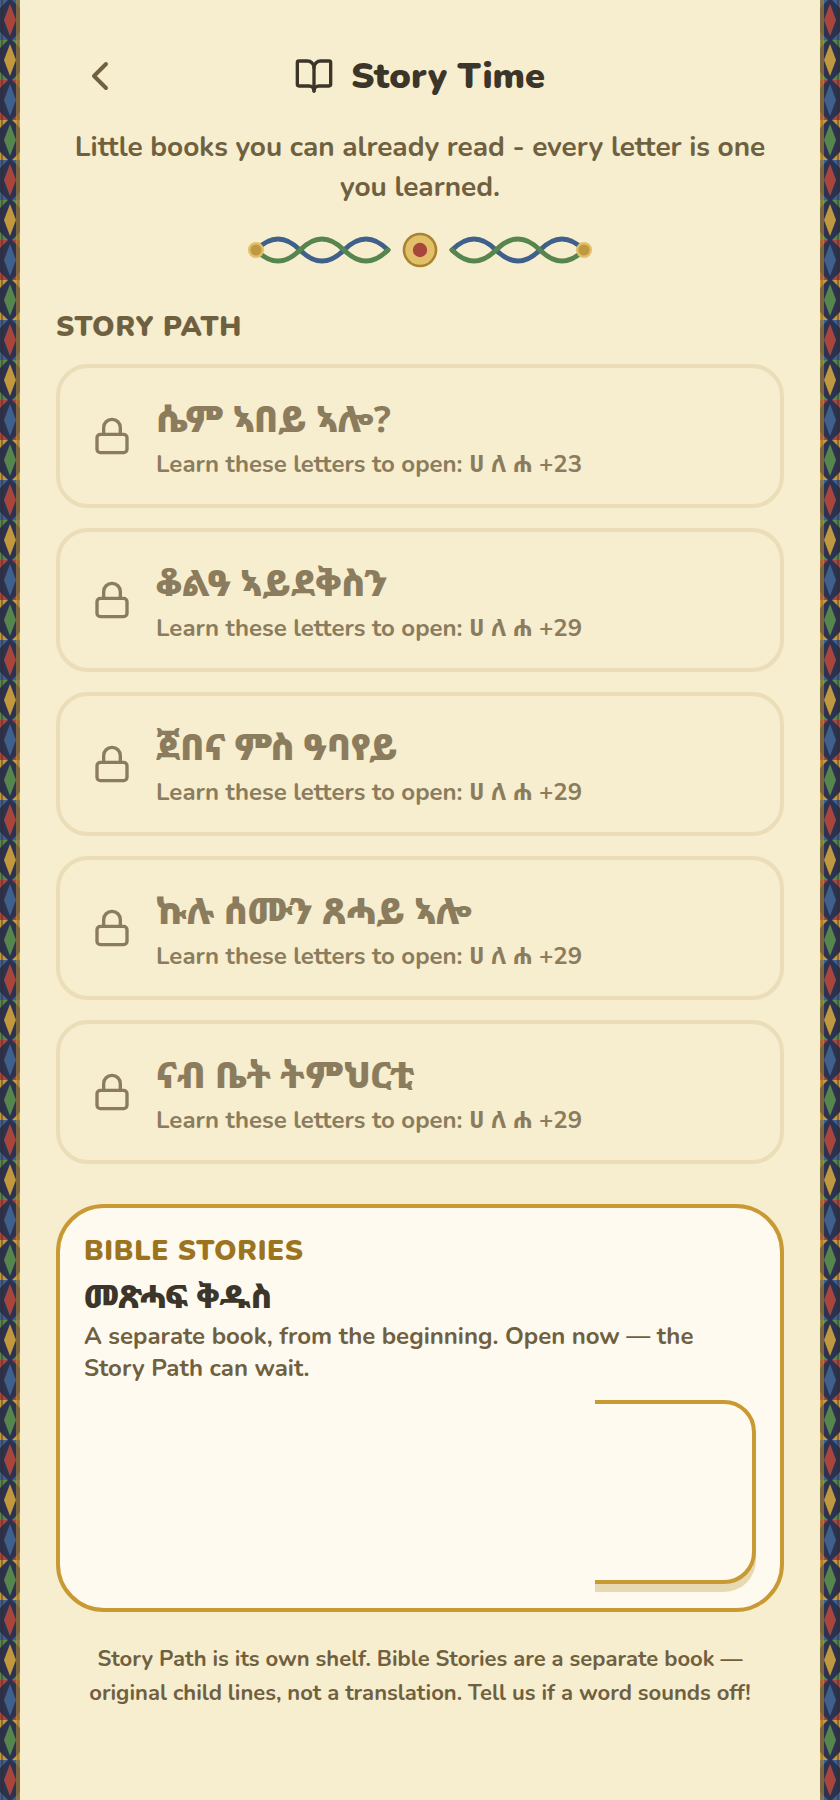
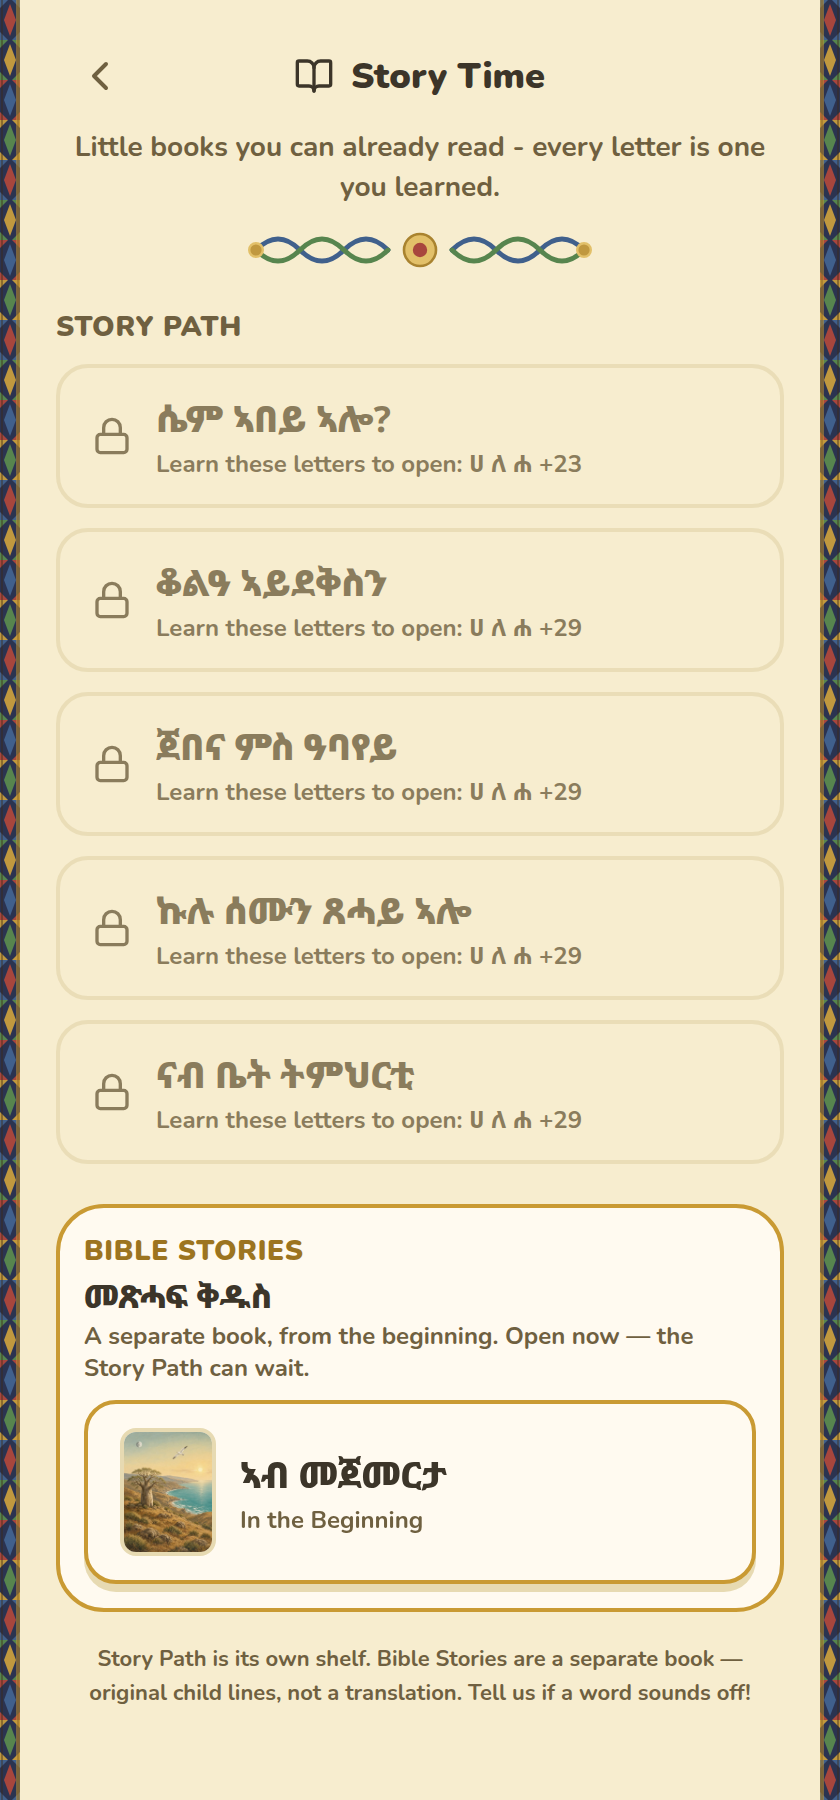
Name each Creation day and repaint the pages
Sunday starts the work and Saturday is the rest, with people on Friday. God's name follows the Tigrinya Bible spelling እግዚኣብሄር. The paintings are highland scenes, and God is still not drawn.

Changed region(s): [[0.0929, 0.7778, 0.7119, 0.9022]]

diff --git a/src/data/bibleStories.test.js b/src/data/bibleStories.test.js
@@ -46,46 +46,48 @@ describe('bible stories shelf', () => {
     expect(entry.free).toBe(true)
   })
 
-  it('uses eight original Tigrinya lines with ኣ, not አ', () => {
+  it('names each creation weekday, with Friday for people and Saturday for rest', () => {
     expect(book.titleTi).toBe('ኣብ መጀመርታ')
     expect(book.titleEn).toBe('In the Beginning')
-    expect(book.refrain.geez).toBe('እግዚኣብሔር ፈጠረ።')
+    expect(book.refrain.geez).toBe('እግዚኣብሄር ፈጠረ።')
     expect(book.refrain.meaningEn).toBe('God made it.')
     expect(book.pages.map((p) => p.geez)).toEqual([
-      'እግዚኣብሔር ብርሃን ፈጠረ።',
-      'እግዚኣብሔር ሰማይ ፈጠረ።',
-      'እግዚኣብሔር ምድሪን ባሕሪን ፈጠረ።',
-      'እግዚኣብሔር ሳዕሪን ኦምን ፈጠረ።',
-      'እግዚኣብሔር ጸሓይን ወርሒን ፈጠረ።',
-      'እግዚኣብሔር ኣዕዋፍን ዓሳን ፈጠረ።',
-      'እግዚኣብሔር ሰብኣይን ሰበይቲን ፈጠረ።',
-      'እግዚኣብሔር ዓረፈ። ኩሉ ጽቡቕ ነበረ።',
+      'እግዚኣብሄር ብዕለት ሰንበት ብርሃን ፈጠረ።',
+      'እግዚኣብሄር ብዕለት ሰኑይ ሰማይ ፈጠረ።',
+      'እግዚኣብሄር ብዕለት ሰሉስ ምድሪን ባሕሪን ፈጠረ።',
+      'እግዚኣብሄር ብዕለት ሰሉስ ሳዕሪን ኣእዋምን ፈጠረ።',
+      'እግዚኣብሄር ብዕለት ረቡዕ ጸሓይን ወርሒን ፈጠረ።',
+      'እግዚኣብሄር ብዕለት ሓሙስ ኣዕዋፍን ዓሳን ፈጠረ።',
+      'እግዚኣብሄር ብዕለት ዓርቢ ሰብኣይን ሰበይቲን ፈጠረ።',
+      'እግዚኣብሄር ብዕለት ቀዳም ዓረፈ። ኩሉ ጽቡቕ።',
     ])
     expect(book.pages.map((p) => p.meaningEn)).toEqual([
-      'God made the light.',
-      'God made the sky.',
-      'God made the land and the sea.',
-      'God made the grass and the trees.',
-      'God made the sun and the moon.',
-      'God made the birds and the fish.',
-      'God made a man and a woman.',
-      'God rested. Everything was good.',
+      'On Sunday God made the light.',
+      'On Monday God made the sky.',
+      'On Tuesday God made the land and the sea.',
+      'On Tuesday God made the grass and the trees.',
+      'On Wednesday God made the sun and the moon.',
+      'On Thursday God made the birds and the fish.',
+      'On Friday God made a man and a woman.',
+      'On Saturday God rested. Everything was good.',
     ])
     expect(blob.includes('አ')).toBe(false)
+    expect(blob.includes('ሔ')).toBe(false)
+    expect(blob.includes('እግዚኣብሄር')).toBe(true)
     expect(book.pages.length).toBeGreaterThanOrEqual(6)
     expect(book.pages.length).toBeLessThanOrEqual(8)
     const amharicLines = new Set(STORIES.flatMap((s) => s.pages.map((p) => p.g)))
     for (const page of book.pages) {
       expect(amharicLines.has(page.geez), page.geez).toBe(false)
       expect(storyWords(page.geez).length, page.geez).toBeGreaterThan(0)
-      expect(storyWords(page.geez).length, page.geez).toBeLessThanOrEqual(5)
+      expect(storyWords(page.geez).length, page.geez).toBeLessThanOrEqual(6)
       expect(page.latin, page.geez).toBeTruthy()
       expect(page.meaningEn, page.geez).toBeTruthy()
       expect(page.pictureHint, page.geez).toBeTruthy()
       expect(page.familyIds, page.geez).toEqual(familiesOfGeez(page.geez))
     }
-    expect(book.question.geez).toBe('መን ሰብኣይን ሰበይቲን ፈጠረ?')
-    expect(book.question.meaningEn).toBe('Who made the man and the woman?')
+    expect(book.question.geez).toBe('እግዚኣብሄር ብዓርቢ እንታይ ፈጠረ?')
+    expect(book.question.meaningEn).toBe('What did God make on Friday?')
   })
 
   it('is a free taste on the Tigrinya Bible shelf only', () => {

diff --git a/src/data/bibleStories.js b/src/data/bibleStories.js
@@ -3,8 +3,14 @@
    ----------------------------------------------------------------------------
    The School Path pack (schoolPathGr1Stories) is the everyday diaspora
    shelf. This module is the Bible shelf. The first book is a kid-level
-   paraphrase of the beginning (Genesis 1-2): eight short original lines,
-   one "God made…" refrain, then rest. Amharic Story Time is untouched.
+   paraphrase of the beginning (Genesis 1-2): eight short original lines.
+   Each line names the weekday. Sunday starts the work, Friday is the
+   people, Saturday is the rest. Land and plants share Tuesday, the
+   third day. Amharic Story Time is untouched.
+
+   ORTHOGRAPHY: ትመ15 spells God እግዚኣብሄር with ሄ, not ሔ. Genesis 1
+   calls the trees ኣእዋም. The grass line keeps the pack word ሳዕሪ.
+   "Good" stays ጽቡቕ, the spelling the rest of eGeez Tigrinya uses.
 
    UNLOCK: `free: true`. The book opens with no families learned, so a
    family can read it on the first day and a reviewer can open it without
@@ -15,8 +21,8 @@
 import raw from './bibleStories.json'
 import { ETHIOPIC_SCRIPT } from '../script/ethiopic'
 
-const MAN = { k: 'person', skin: '#a56a38', hair: '#241812', cloth: '#efe7d4', hairStyle: 'short' }
-const WOMAN = { k: 'person', skin: '#c98a5a', hair: '#241812', cloth: '#8aaa72', blush: true }
+const MAN = { k: 'person', skin: '#6b3a22', hair: '#1a100c', cloth: '#efe4cf', hairStyle: 'short' }
+const WOMAN = { k: 'person', skin: '#7a4030', hair: '#1a100c', cloth: '#8e3d45', blush: true }
 
 function familyOfChar(ch) {
   for (const family of ETHIOPIC_SCRIPT.families) {

diff --git a/docs/school-path.md b/docs/school-path.md
@@ -116,10 +116,14 @@ Path list. It is not part of the five Story Path books and it does not
 rewrite the Amharic biblical tracks.
 
 The first book is `ኣብ መጀመርታ` / In the Beginning, a kid paraphrase of
-Genesis 1-2 (eight pages, "God made…" then rest). Lines are original.
-The book is a free taste: `free: true`, so it opens before any School
-Path unit is finished. Later Bible books can name a gate. God is not
-drawn; each painting shows what that page's line names.
+Genesis 1-2. Each line names the weekday: Sunday light, Monday sky,
+Tuesday land and sea, Tuesday grass and trees, Wednesday sun and moon,
+Thursday birds and fish, Friday a man and a woman, Saturday rest.
+Tuesday is one creation day, so it has two pages. Saturday is the
+seventh-day rest. Lines are original. God's name follows ትመ15,
+`እግዚኣብሄር`. The book is a free taste: `free: true`, so it opens before
+any School Path unit is finished. Later Bible books can name a gate.
+God is not drawn; each painting shows what that page's line names.
 
 ## P1 follow-ups
 
